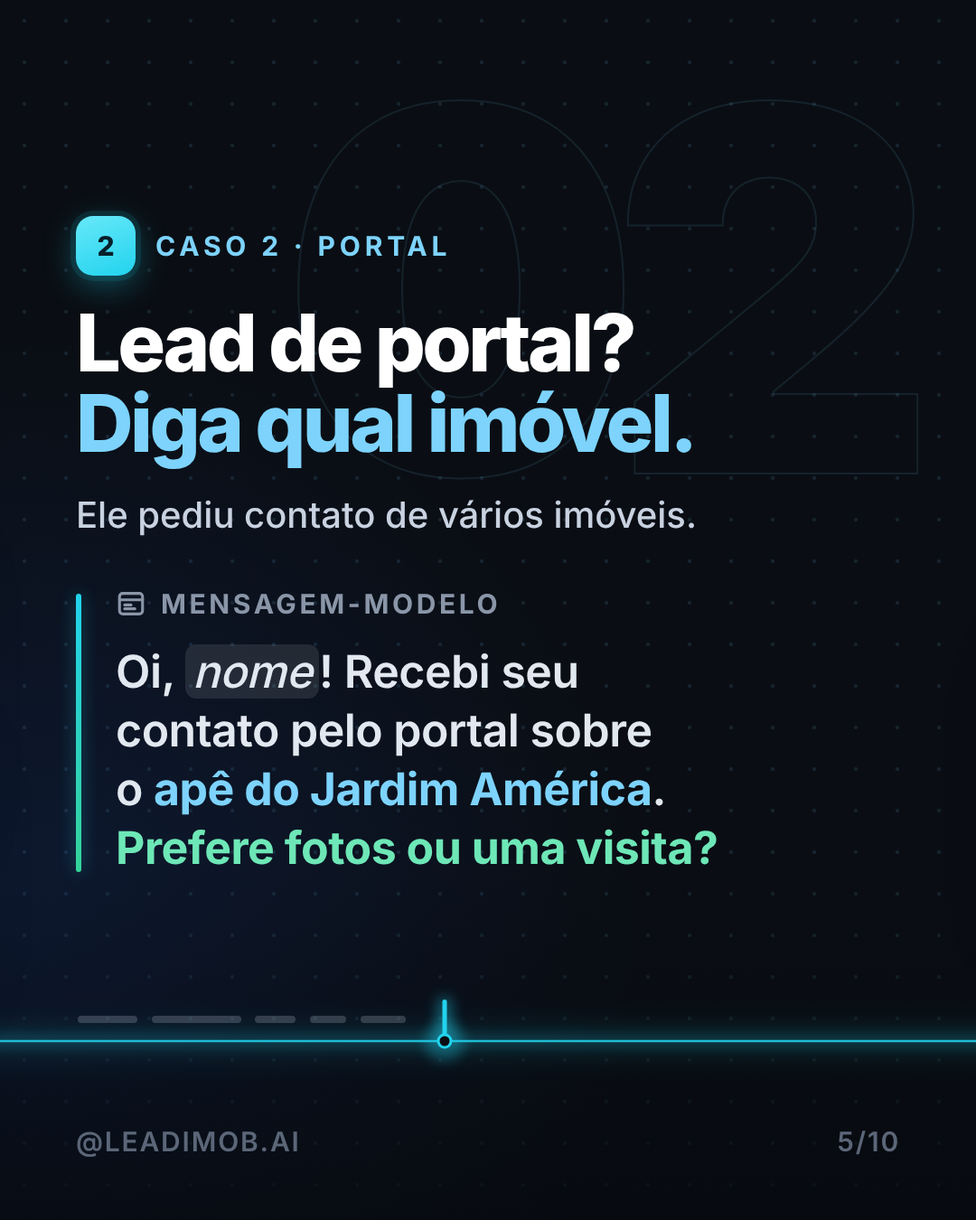
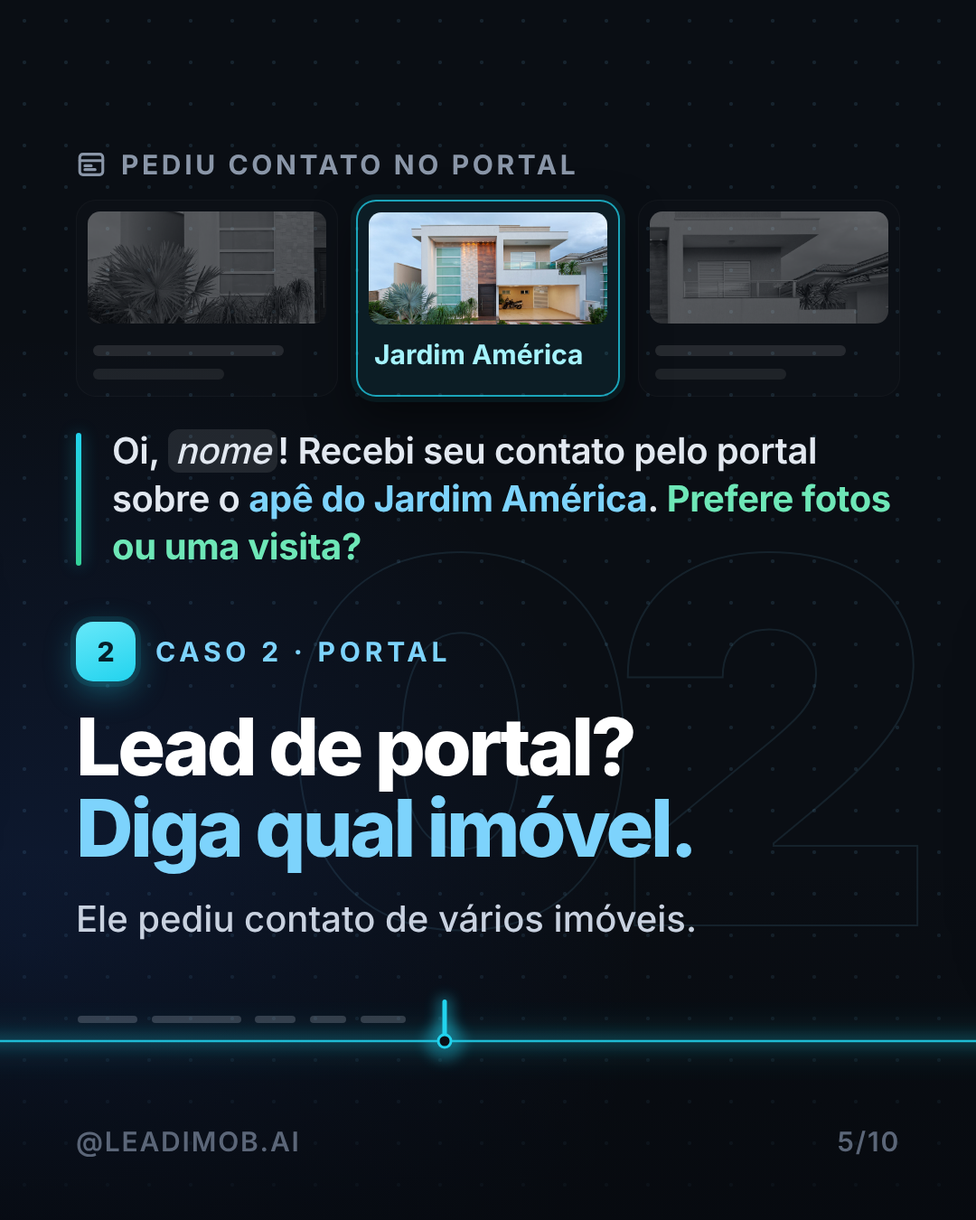
14/10: carrossel rodada 2 (clareza e estrutura própria), em crítica do corte final
Claude-Session: https://claude.ai/code/session_01LvJANurrpUBbb4ttcDaKAe

Changed region(s): [[0.0611, 0.1244, 0.9167, 0.7156], [0.0611, 0.7467, 0.7028, 0.7778]]

diff --git a/instagram/2026-10-14/src/c1-index.html b/instagram/2026-10-14/src/c1-index.html
@@ -89,13 +89,17 @@ body{background:#0A0E14;width:10800px;height:1350px;overflow:hidden;font-family:
 <svg id="lane" class="abs" width="10800" height="1350" style="left:0;top:0;z-index:4;pointer-events:none"></svg>
 
 <!-- 1 CAPA -->
-<div class="sl" style="left:0">
+<div class="sl" style="left:0;padding-bottom:330px">
  <div style="display:flex;justify-content:space-between;align-items:center">
   <div class="ttl" style="margin:0"><div class="num"><svg width="32" height="32" viewBox="0 0 24 24"><path d="M12 3c5 0 9 3.6 9 8.2S17 19.5 12 19.5c-1 0-2-.15-2.9-.42L4.5 21l1.2-3.9C4 15.6 3 13.5 3 11.2 3 6.6 7 3 12 3z" fill="#06202A"/></svg></div><div class="kick">Primeira mensagem</div></div>
   <span class="chip cy"><svg width="24" height="28" viewBox="0 0 20 24"><path d="M3 2h14v20l-7-5.5L3 22z" fill="#A5F3FC"/></svg>Salve este post</span>
  </div>
  <div class="h1" style="margin-top:84px;font-size:124px;line-height:.98">“Como posso ajudar?” <span class="hl">não abre conversa.</span></div>
  <div class="p" style="margin-top:44px;color:#E2E8F0">Modelos de primeira mensagem para copiar, um para cada tipo de lead.</div>
+ <!-- imagem do problema: a pergunta aberta, lida e sem resposta, parada na linha -->
+ <div class="foot0" style="position:absolute;right:84px;top:962px;display:flex;flex-direction:column;align-items:flex-end">
+  <div class="bub bneu" style="font-size:32px;padding:16px 24px 12px;background:#222B35;color:#AEB8C6;box-shadow:0 18px 36px rgba(0,0,0,.45)">Como posso ajudar?<div class="bt" style="margin-top:6px">lida <svg class="tk" viewBox="0 0 34 22"><path d="M2 12l6 6L20 4M14 18l14-14" stroke="#53BDEB" stroke-width="3" fill="none" stroke-linecap="round" stroke-linejoin="round"/></svg></div></div>
+ </div>
  <div class="foot"><span>@LEADIMOB.AI</span><span style="color:#7DD3FC">ARRASTE →</span></div>
 </div>
 
@@ -103,11 +107,11 @@ body{background:#0A0E14;width:10800px;height:1350px;overflow:hidden;font-family:
 <div class="sl" style="left:1080px">
  <div class="ttl"><div class="num amb">!</div><div class="kick" style="color:#FBBF24">O problema</div></div>
  <div class="h2">Pergunta aberta devolve o trabalho <span class="am">ao cliente.</span></div>
- <div class="p">Ele teria que explicar tudo. E deixa para depois.</div>
+ <div class="p">Ele teria de explicar tudo. Então deixa para depois.</div>
  <div class="wa art" style="padding:30px 30px 32px">
   <div class="bub bneu" style="font-size:42px">Olá, tudo bem? Como posso ajudar?</div>
-  <div class="lab2" style="margin-top:30px">O que ele teria que escrever</div>
-  <div class="bub bin" style="margin-top:16px;width:640px;padding:28px 30px;border:2px dashed rgba(245,158,11,.5);background:rgba(32,44,51,.55)">
+  <div class="lab2" style="margin-top:30px">O que ele teria de escrever</div>
+  <div class="bub bin" style="margin-top:16px;width:640px;padding:28px 30px;border:2px dashed rgba(245,158,11,.35);background:rgba(32,44,51,.55)">
    <div style="height:14px;width:92%;border-radius:7px;background:rgba(201,210,224,.22)"></div>
    <div style="height:14px;width:100%;border-radius:7px;background:rgba(201,210,224,.22);margin-top:20px"></div>
    <div style="height:14px;width:58%;border-radius:7px;background:rgba(201,210,224,.22);margin-top:20px"></div>
@@ -116,18 +120,18 @@ body{background:#0A0E14;width:10800px;height:1350px;overflow:hidden;font-family:
  <div class="foot"><span>@LEADIMOB.AI</span><span>2/10</span></div>
 </div>
 
-<!-- 3 A REGRA: antes -> depois na mesma mensagem -->
+<!-- 3 A FÓRMULA: a mensagem boa sozinha, o trecho do imóvel ligado por um fio ao card do imóvel -->
 <div class="sl" style="left:2160px">
- <div class="ttl"><div class="num"><svg width="32" height="32" viewBox="0 0 24 24"><path d="M5 12.5l4.5 4.5L19 7" stroke="#06202A" stroke-width="3" fill="none" stroke-linecap="round" stroke-linejoin="round"/></svg></div><div class="kick">A regra</div></div>
+ <div class="ttl"><div class="num"><svg width="32" height="32" viewBox="0 0 24 24"><path d="M5 9h14M5 15h14" stroke="#06202A" stroke-width="3" stroke-linecap="round"/></svg></div><div class="kick">A fórmula</div></div>
  <div class="h2">Cite o imóvel. Faça uma <span class="hl">pergunta fácil</span>.</div>
  <div class="p">Comece pelo imóvel que ele viu.</div>
- <div class="mod art">
-  <div style="padding:30px 38px 26px 80px;font:500 36px/1.2 IN;color:#6B7687;border-bottom:1px solid rgba(255,255,255,.07)"><span style="text-decoration:line-through;text-decoration-thickness:3px;text-decoration-color:#8A96A8">Olá, tudo bem? Como posso ajudar?</span></div>
-  <div class="mt" style="font-size:42px">Oi, Ana! Vi que você se interessou pela <span class="ci">casa com quintal no Campo Belo</span>. <span class="qu">Quer ver as fotos do quintal?</span></div>
- </div>
- <div style="display:flex;gap:44px;margin-top:30px;padding-left:6px">
-  <div class="lab2" style="color:#A5F3FC"><span class="dot" style="background:#22D3EE"></span>Cita o imóvel</div>
-  <div class="lab2" style="color:#6EE7B7"><span class="dot" style="background:#34D399"></span>Pergunta fácil</div>
+ <div class="art" id="f3" style="position:relative">
+  <svg id="f3w" class="abs" style="left:0;top:0;overflow:visible;z-index:3;pointer-events:none" width="10" height="10"></svg>
+  <div class="mod" style="z-index:2"><div class="mt" style="font-size:42px">Oi, Ana! Vi que você se interessou pela <span class="ci" id="f3c">casa com quintal no Campo Belo</span>. <span class="qu">Quer ver as fotos do quintal?</span></div></div>
+  <div id="f3k" class="card" style="z-index:2;margin:72px 0 0 auto;width:560px;padding:18px;display:flex;align-items:center;gap:22px;border-color:rgba(125,211,252,.34);border-radius:26px">
+   <div style="width:132px;height:100px;border-radius:16px;background:url(property.jpg) center 45%/cover;flex:none"></div>
+   <div style="font:700 32px/1.25 IN;color:#E2E8F0">Casa com quintal<div style="font-weight:500;color:#8A96A8;margin-top:6px">Campo Belo</div></div>
+  </div>
  </div>
  <div class="foot"><span>@LEADIMOB.AI</span><span>3/10</span></div>
 </div>
@@ -136,25 +140,41 @@ body{background:#0A0E14;width:10800px;height:1350px;overflow:hidden;font-family:
 <div class="sl" style="left:3240px"><div class="ghost">01</div>
  <div class="ttl"><div class="num">1</div><div class="kick">Caso 1 · anúncio</div></div>
  <div class="h2">Veio do anúncio? <span class="hl">Cite o anúncio.</span></div>
- <div class="p">Ele lembra do imóvel, não do seu nome.</div>
- <div class="art" style="position:relative;margin-right:-12px;height:300px;border-radius:30px;background:url(property.jpg) center 40%/cover;box-shadow:0 40px 80px rgba(0,0,0,.5)">
-  <div style="position:absolute;inset:0;border-radius:30px;background:linear-gradient(180deg,rgba(10,14,20,0) 30%,rgba(10,14,20,.75))"></div>
+ <div class="p">Ele se lembra do imóvel, não do seu nome.</div>
+ <div class="art" style="position:relative;height:300px;border-radius:30px;background:url(property.jpg) center 40%/cover;box-shadow:0 40px 80px rgba(0,0,0,.5)">
+  <div style="position:absolute;inset:0;border-radius:30px;background:linear-gradient(180deg,rgba(10,14,20,0) 0%,rgba(10,14,20,.15) 55%,rgba(10,14,20,.40) 100%)"></div>
   <span class="chip" style="position:absolute;left:28px;top:28px;background:rgba(10,14,20,.72);border:1.5px solid rgba(255,255,255,.18);color:#E2E8F0">Anúncio</span>
  </div>
- <div class="mod" style="margin-top:-90px;margin-left:40px;z-index:2"><div class="mt">Oi, <span class="fld">nome</span>! Vi que você chamou pelo anúncio do <span class="ci">sobrado da Vila Mariana</span>. <span class="qu">Quer ver o vídeo por dentro?</span></div></div>
+ <div class="mod" style="margin:-90px 40px 0;z-index:2"><div class="mt">Oi, <span class="fld">nome</span>! Vi que você chamou pelo anúncio do <span class="ci">sobrado da Vila Mariana</span>. <span class="qu">Quer ver o vídeo por dentro?</span></div></div>
  <div class="foot"><span>@LEADIMOB.AI</span><span>4/10</span></div>
 </div>
 
-<!-- 5 CASO 2: PORTAL (tipográfico, sem cartão) -->
-<div class="sl" style="left:4320px"><div class="ghost">02</div>
- <div class="ttl"><div class="num">2</div><div class="kick">Caso 2 · portal</div></div>
+<!-- 5 CASO 2: PORTAL (invertido: artefato em cima, título embaixo) -->
+<div class="sl" style="left:4320px"><div class="ghost" style="top:auto;bottom:250px">02</div>
+ <div class="art" style="margin-top:0">
+  <div class="lab2" style="margin-bottom:22px"><svg width="34" height="34" viewBox="0 0 24 24" fill="none" stroke="#8A96A8" stroke-width="2.2" stroke-linejoin="round"><rect x="3" y="4" width="18" height="16" rx="2.5"/><path d="M3 9h18M7 13h5M7 16h8" stroke-linecap="round"/></svg>Pediu contato no portal</div>
+  <div style="display:flex;gap:20px;align-items:stretch">
+   <div style="flex:1;border-radius:22px;padding:12px;background:rgba(255,255,255,.03);border:1.5px solid rgba(255,255,255,.08);opacity:.38;filter:grayscale(1)">
+    <div style="height:124px;border-radius:14px;background:url(property.jpg) 8% 70%/230%"></div>
+    <div style="height:12px;width:80%;border-radius:6px;background:rgba(201,210,224,.35);margin:24px 6px 0"></div><div style="height:12px;width:55%;border-radius:6px;background:rgba(201,210,224,.25);margin:14px 6px 6px"></div>
+   </div>
+   <div style="flex:1;border-radius:22px;padding:12px;background:rgba(34,211,238,.08);border:2px solid rgba(34,211,238,.75);box-shadow:0 0 0 6px rgba(34,211,238,.08),0 24px 50px rgba(0,0,0,.5)">
+    <div style="height:124px;border-radius:14px;background:url(property.jpg) center 45%/cover"></div>
+    <div style="font:700 30px/1 IN;color:#A5F3FC;margin:18px 6px 8px;white-space:nowrap">Jardim América</div>
+   </div>
+   <div style="flex:1;border-radius:22px;padding:12px;background:rgba(255,255,255,.03);border:1.5px solid rgba(255,255,255,.08);opacity:.38;filter:grayscale(1)">
+    <div style="height:124px;border-radius:14px;background:url(property.jpg) 95% 35%/210%"></div>
+    <div style="height:12px;width:80%;border-radius:6px;background:rgba(201,210,224,.35);margin:24px 6px 0"></div><div style="height:12px;width:55%;border-radius:6px;background:rgba(201,210,224,.25);margin:14px 6px 6px"></div>
+   </div>
+  </div>
+  <div style="position:relative;margin-top:34px;padding-left:40px">
+   <div style="position:absolute;left:0;top:6px;bottom:6px;width:6px;border-radius:3px;background:linear-gradient(180deg,#22D3EE,#34D399);box-shadow:0 0 18px rgba(34,211,238,.4)"></div>
+   <div style="font:600 40px/1.32 IN;letter-spacing:-.01em;color:#E2E8F0;text-wrap:pretty">Oi, <span class="fld">nome</span>! Recebi seu contato pelo portal sobre o <span class="ci">apê do Jardim América</span>. <span class="qu">Prefere fotos ou uma visita?</span></div>
+  </div>
+ </div>
+ <div class="ttl" style="margin:56px 0 28px"><div class="num">2</div><div class="kick">Caso 2 · portal</div></div>
  <div class="h2">Lead de portal? <span class="hl">Diga qual imóvel.</span></div>
  <div class="p">Ele pediu contato de vários imóveis.</div>
- <div class="art" style="position:relative;padding-left:44px">
-  <div style="position:absolute;left:0;top:6px;bottom:6px;width:6px;border-radius:3px;background:linear-gradient(180deg,#22D3EE,#34D399);box-shadow:0 0 18px rgba(34,211,238,.4)"></div>
-  <div class="lab2" style="margin-bottom:26px"><svg width="34" height="34" viewBox="0 0 24 24" fill="none" stroke="#8A96A8" stroke-width="2.2" stroke-linejoin="round"><rect x="3" y="4" width="18" height="16" rx="2.5"/><path d="M3 9h18M7 13h5M7 16h8" stroke-linecap="round"/></svg>Mensagem-modelo</div>
-  <div style="font:600 50px/1.3 IN;letter-spacing:-.01em;color:#E2E8F0;text-wrap:balance">Oi, <span class="fld">nome</span>! Recebi seu contato pelo portal sobre o <span class="ci">apê do Jardim América</span>. <span class="qu">Prefere fotos ou uma visita?</span></div>
- </div>
  <div class="foot"><span>@LEADIMOB.AI</span><span>5/10</span></div>
 </div>
 
@@ -169,7 +189,7 @@ body{background:#0A0E14;width:10800px;height:1350px;overflow:hidden;font-family:
    <svg width="64" height="24" viewBox="0 0 64 24" style="margin:0 6px"><path d="M2 12h52M46 4l9 8-9 8" stroke="#7DD3FC" stroke-width="3" fill="none" stroke-linecap="round" stroke-linejoin="round"/></svg>
    <div class="av" style="background:#123241;border:4px solid #0F1622;box-shadow:0 0 0 2px rgba(34,211,238,.6),0 14px 30px rgba(0,0,0,.5)"><svg width="42" height="42" viewBox="0 0 24 24"><circle cx="12" cy="9" r="4" fill="#A5F3FC"/><path d="M4 21c1-4.5 4.4-6.5 8-6.5s7 2 8 6.5z" fill="#A5F3FC"/></svg></div>
   </div>
-  <div class="mt" style="padding-top:66px">Oi, <span class="fld">nome</span>! <span class="ci">O Carlos me passou seu contato</span>. Você procura casa perto do trabalho? <span class="qu">Qual bairro é melhor para você?</span></div>
+  <div class="mt" style="padding-top:66px">Oi, <span class="fld">nome</span>! <span class="ci">O Carlos me passou seu contato</span> e contou que você procura casa perto do trabalho. <span class="qu">Qual bairro é melhor para você?</span></div>
  </div>
  <div class="foot"><span>@LEADIMOB.AI</span><span>6/10</span></div>
 </div>
@@ -199,8 +219,8 @@ body{background:#0A0E14;width:10800px;height:1350px;overflow:hidden;font-family:
 <!-- 9 LEADIMOB -->
 <div class="sl" style="left:8640px">
  <div class="ttl"><div class="num"><svg width="34" height="34" viewBox="0 0 24 24"><path d="M12 3c5 0 9 3.6 9 8.2S17 19.5 12 19.5c-1 0-2-.15-2.9-.42L4.5 21l1.2-3.9C4 15.6 3 13.5 3 11.2 3 6.6 7 3 12 3z" fill="#06202A"/></svg></div><div class="kick">Onde a Leadimob entra</div></div>
- <div class="h2">A Leadimob abre a conversa <span class="hl">pelo imóvel</span>.</div>
- <div class="p">Responde a qualquer hora com o seu catálogo, qualifica o lead e chama você na hora de negociar.</div>
+ <div class="h2">A Leadimob responde já <span class="hl">citando o imóvel</span>.</div>
+ <div class="p">Responde a qualquer hora com o seu catálogo e chama você na hora de negociar.</div>
  <div class="card art" style="padding:30px 34px 30px">
   <div style="display:flex;align-items:center;justify-content:space-between">
    <div class="row"><div class="av" style="width:72px;height:72px;font-size:32px;background:#22364B;color:#C9D6E2;box-shadow:none">A</div><div><div style="font:700 38px/1 IN">Ana</div><div style="font:500 30px/1 IN;color:#8A96A8;margin-top:10px">Casa com quintal · Campo Belo</div></div></div>
@@ -217,15 +237,15 @@ body{background:#0A0E14;width:10800px;height:1350px;overflow:hidden;font-family:
 <!-- 10 CTA: a linha de digitação sobe e vira o campo do comentário -->
 <div class="sl" style="left:9720px;padding-top:230px">
  <div class="ttl"><div class="num"><svg width="32" height="32" viewBox="0 0 24 24"><path d="M5 12.5l4.5 4.5L19 7" stroke="#06202A" stroke-width="3" fill="none" stroke-linecap="round" stroke-linejoin="round"/></svg></div><div class="kick">Sua vez</div></div>
- <div class="h2">Qual modelo você <span class="hl">testa primeiro?</span></div>
- <div class="p">Conte qual no comentário.</div>
+ <div class="h2">Qual abertura você <span class="hl">testa primeiro?</span></div>
+ <div class="p">Comente <b style="color:#fff;font-weight:700">ABERTURA</b><br>+ o número do caso (1 a 4).</div>
  <div id="cta" style="margin-top:50px;height:124px;border-radius:62px;background:#141B28;border:2px solid rgba(125,211,252,.5);box-shadow:0 0 0 8px rgba(34,211,238,.06),0 30px 70px rgba(0,0,0,.55),0 0 60px rgba(34,211,238,.16);display:flex;align-items:center;padding:0 16px 0 40px;gap:16px;font:600 44px IN">
   <span style="color:#7C8799">Comente</span><span style="font-weight:900;letter-spacing:.02em">ABERTURA</span><span style="width:4px;height:52px;background:#22D3EE;border-radius:2px;box-shadow:0 0 12px #22D3EE"></span>
   <span style="margin-left:auto;width:90px;height:90px;border-radius:50%;background:#2563EB;display:flex;align-items:center;justify-content:center;box-shadow:0 10px 30px rgba(37,99,235,.55)"><svg width="40" height="40" viewBox="0 0 24 24"><path d="M3 12 L21 3 L14 21 L11 13 Z" fill="#fff"/></svg></span>
  </div>
  <div style="margin-top:48px;display:flex;align-items:center;gap:28px">
   <div style="width:300px;height:96px;border-radius:22px;background:#F3F7FB;display:flex;align-items:center;justify-content:center;box-shadow:0 20px 44px rgba(0,0,0,.5);flex:none"><img src="logo.png" style="width:240px"></div>
-  <div style="font:700 32px/1.3 IN;color:#7DD3FC">Solicite uma demonstração<br><span style="color:#C9D2E0;font-weight:600">link na bio</span></div>
+  <div style="font:700 32px/1.3 IN;color:#7DD3FC">Solicite uma demonstração —<br><span style="color:#C9D2E0;font-weight:600">link na bio</span></div>
  </div>
  <div class="foot"><span>@LEADIMOB.AI</span><span>10/10</span></div>
 </div>
@@ -242,9 +262,14 @@ const ic=(k,c)=>ICON[k].replace(/CLR/g,c);
 document.getElementById('answers').innerHTML=[['ad','Quero!'],['portal','Visita!'],['ind','Pinheiros.'],['moon','Sábado.']].map(([k,w],i)=>
  `<div class="ans" style="margin-left:${i*72}px"><div class="tile">${ic(k,'#6EE7B7')}</div><div class="bub bin" style="border:1.5px solid rgba(52,211,153,.30)">${w}</div></div>`).join('');
 // linha de digitação contínua
+function drawFiber(){const box=document.getElementById('f3').getBoundingClientRect(),rs=[...document.getElementById('f3c').getClientRects()],k=document.getElementById('f3k').getBoundingClientRect();
+ const last=rs[rs.length-1],x0=last.right-56-box.left,y0=last.bottom-box.top+14,x1=k.left+k.width/2-box.left,y1=k.top-box.top;
+ const sv=document.getElementById('f3w');sv.setAttribute('width',box.width);sv.setAttribute('height',box.height);
+ sv.innerHTML=`<path d="M${x0} ${y0} C${x0} ${y0+80} ${x1} ${y1-80} ${x1} ${y1}" fill="none" stroke="#7DD3FC" stroke-width="2.5" stroke-opacity=".8" stroke-dasharray="0"/><circle cx="${x0}" cy="${y0}" r="7" fill="#0F1622" stroke="#7DD3FC" stroke-width="2.5"/><circle cx="${x1}" cy="${y1}" r="7" fill="#7DD3FC"/>`;
+}
 function drawLane(){const r=rng(1410),Y=1152;let s='';
  const cb=document.getElementById('cta').getBoundingClientRect(),FX=cb.left+2,FY=cb.top+cb.height/2;
- s+=`<defs><linearGradient id="ln" gradientUnits="userSpaceOnUse" x1="0" x2="10800"><stop offset="0" stop-color="#22D3EE" stop-opacity=".25"/><stop offset=".06" stop-color="#22D3EE"/><stop offset=".099" stop-color="#22D3EE"/><stop offset=".101" stop-color="#F59E0B"/><stop offset=".199" stop-color="#F59E0B"/><stop offset=".201" stop-color="#22D3EE"/><stop offset=".699" stop-color="#22D3EE"/><stop offset=".701" stop-color="#34D399"/><stop offset=".899" stop-color="#34D399"/><stop offset=".901" stop-color="#22D3EE"/></linearGradient><filter id="gl" x="-5%" y="-400%" width="110%" height="900%"><feGaussianBlur stdDeviation="8"/></filter><filter id="gl3" x="-5%" y="-800%" width="110%" height="1700%"><feGaussianBlur stdDeviation="18"/></filter><filter id="gl2" x="-200%" y="-200%" width="500%" height="500%"><feGaussianBlur stdDeviation="7"/></filter></defs>`;
+ s+=`<defs><linearGradient id="ln" gradientUnits="userSpaceOnUse" x1="0" x2="10800"><stop offset="0" stop-color="#22D3EE" stop-opacity=".25"/><stop offset=".06" stop-color="#22D3EE"/><stop offset=".099" stop-color="#22D3EE"/><stop offset=".101" stop-color="#C9D2E0" stop-opacity=".35"/><stop offset=".199" stop-color="#C9D2E0" stop-opacity=".35"/><stop offset=".201" stop-color="#22D3EE"/><stop offset=".699" stop-color="#22D3EE"/><stop offset=".701" stop-color="#34D399"/><stop offset=".899" stop-color="#34D399"/><stop offset=".901" stop-color="#22D3EE"/></linearGradient><filter id="gl" x="-5%" y="-400%" width="110%" height="900%"><feGaussianBlur stdDeviation="8"/></filter><filter id="gl3" x="-5%" y="-800%" width="110%" height="1700%"><feGaussianBlur stdDeviation="18"/></filter><filter id="gl2" x="-200%" y="-200%" width="500%" height="500%"><feGaussianBlur stdDeviation="7"/></filter></defs>`;
  const X1=84,XC=9720-70;
  const d=`M${X1} ${Y}H${XC}C${XC+70} ${Y} ${FX-80} ${FY} ${FX} ${FY}`;
  s+=`<path d="${d}" fill="none" stroke="url(#ln)" stroke-width="16" opacity=".22" filter="url(#gl3)"/><path d="${d}" fill="none" stroke="url(#ln)" stroke-width="6" opacity=".45" filter="url(#gl)"/><path d="${d}" fill="none" stroke="url(#ln)" stroke-width="2.5" opacity=".85"/>`;
@@ -255,5 +280,5 @@ function drawLane(){const r=rng(1410),Y=1152;let s='';
   if(i===0)s+=`<text x="${cx+24}" y="${Y-16}" font-family="IN" font-weight="500" font-size="32" fill="#7C8799">Escreva a primeira mensagem…</text>`;
  }
  document.getElementById('lane').innerHTML=s}
-window.ready=document.fonts.ready.then(()=>document.fonts.load('600 44px IN')).then(()=>drawLane()).then(()=>Promise.all(['400 20px IN','500 20px IN','600 20px IN','700 20px IN','800 20px IN','900 20px IN'].map(f=>document.fonts.load(f)))).then(()=>Promise.all([...document.images].map(i=>i.decode().catch(()=>0)))).then(()=>new Promise(r=>{const im=new Image();im.onload=im.onerror=()=>setTimeout(r,300);im.src='property.jpg'}));
+window.ready=document.fonts.ready.then(()=>document.fonts.load('600 44px IN')).then(()=>{drawLane();drawFiber()}).then(()=>Promise.all(['400 20px IN','500 20px IN','600 20px IN','700 20px IN','800 20px IN','900 20px IN'].map(f=>document.fonts.load(f)))).then(()=>Promise.all([...document.images].map(i=>i.decode().catch(()=>0)))).then(()=>new Promise(r=>{const im=new Image();im.onload=im.onerror=()=>setTimeout(r,300);im.src='property.jpg'}));
 </script></body></html>

diff --git a/instagram/2026-10-14/carrossel/carrossel-editor.html b/instagram/2026-10-14/carrossel/carrossel-editor.html
@@ -312,7 +312,7 @@ input[type=range]{width:100%;accent-color:#6C5CE7;height:18px;cursor:pointer;}
     </div>
   </div>
 </div>
-<script id="deck-data" type="application/json">{"kit": "tech", "formato": "4:5", "paleta": {"bg": "#0A0E14", "fg": "#FFFFFF", "muted": "#8A93A3", "accent": "#22D3EE", "surface": "#141B28", "cream": "#F3F7FB"}, "handle": "@leadimob.ai", "slides": [{"tipo": "capa", "kicker": "PRIMEIRA MENSAGEM · SALVE ESTE POST", "titulo": "“Como posso ajudar?” não abre conversa.", "sub": "Modelos de primeira mensagem para copiar, um para cada tipo de lead."}, {"tipo": "conteudo", "kicker": "O PROBLEMA", "titulo": "Pergunta aberta devolve o trabalho ao cliente.", "sub": "Ele teria que explicar tudo. E deixa para depois."}, {"tipo": "conteudo", "kicker": "A REGRA", "titulo": "Cite o imóvel. Faça uma pergunta fácil.", "sub": "Comece pelo imóvel que ele viu.", "corpo": "Antes: Olá, tudo bem? Como posso ajudar?\nDepois: Oi, Ana! Vi que você se interessou pela casa com quintal no Campo Belo. Quer ver as fotos do quintal?"}, {"tipo": "conteudo", "kicker": "CASO 1 · ANÚNCIO", "titulo": "Veio do anúncio? Cite o anúncio.", "sub": "Ele lembra do imóvel, não do seu nome.", "corpo": "Oi, [nome]! Vi que você chamou pelo anúncio do sobrado da Vila Mariana. Quer ver o vídeo por dentro?"}, {"tipo": "conteudo", "kicker": "CASO 2 · PORTAL", "titulo": "Lead de portal? Diga qual imóvel.", "sub": "Ele pediu contato de vários imóveis.", "corpo": "Oi, [nome]! Recebi seu contato pelo portal sobre o apê do Jardim América. Prefere fotos ou uma visita?"}, {"tipo": "conteudo", "kicker": "CASO 3 · INDICAÇÃO", "titulo": "Veio por indicação? Diga quem indicou.", "sub": "Um nome de confiança abre a porta.", "corpo": "Oi, [nome]! O Carlos me passou seu contato. Você procura casa perto do trabalho? Qual bairro é melhor para você?"}, {"tipo": "conteudo", "kicker": "CASO 4 · FORA DO HORÁRIO", "titulo": "Chegou à noite? Volte ao assunto dele.", "sub": "Comece pelo que ele perguntou.", "corpo": "Bom dia, [nome]! Vi sua pergunta de ontem sobre o apê do Centro. Prefere visitar sábado ou durante a semana?"}, {"tipo": "lista", "kicker": "O RESULTADO", "titulo": "A resposta cabe em uma palavra.", "sub": "Quatro modelos, quatro respostas fáceis.", "itens": ["Quero!", "Visita!", "Pinheiros.", "Sábado."]}, {"tipo": "conteudo", "kicker": "ONDE A LEADIMOB ENTRA", "titulo": "A Leadimob abre a conversa pelo imóvel.", "sub": "Responde a qualquer hora com o seu catálogo, qualifica o lead e chama você na hora de negociar."}, {"tipo": "cta", "kicker": "SUA VEZ", "titulo": "Qual modelo você testa primeiro?", "sub": "Conte qual no comentário: Comente ABERTURA. Solicite uma demonstração — link na bio."}]}</script>
+<script id="deck-data" type="application/json">{"kit": "tech", "formato": "4:5", "paleta": {"bg": "#0A0E14", "fg": "#FFFFFF", "muted": "#8A93A3", "accent": "#22D3EE", "surface": "#141B28", "cream": "#F3F7FB"}, "handle": "@leadimob.ai", "slides": [{"tipo": "capa", "kicker": "PRIMEIRA MENSAGEM · SALVE ESTE POST", "titulo": "“Como posso ajudar?” não abre conversa.", "sub": "Modelos de primeira mensagem para copiar, um para cada tipo de lead."}, {"tipo": "conteudo", "kicker": "O PROBLEMA", "titulo": "Pergunta aberta devolve o trabalho ao cliente.", "sub": "Ele teria de explicar tudo. Então deixa para depois."}, {"tipo": "conteudo", "kicker": "A FÓRMULA", "titulo": "Cite o imóvel. Faça uma pergunta fácil.", "sub": "Comece pelo imóvel que ele viu.", "corpo": "Oi, Ana! Vi que você se interessou pela casa com quintal no Campo Belo. Quer ver as fotos do quintal?\nImóvel citado: Casa com quintal · Campo Belo"}, {"tipo": "conteudo", "kicker": "CASO 1 · ANÚNCIO", "titulo": "Veio do anúncio? Cite o anúncio.", "sub": "Ele se lembra do imóvel, não do seu nome.", "corpo": "Oi, [nome]! Vi que você chamou pelo anúncio do sobrado da Vila Mariana. Quer ver o vídeo por dentro?"}, {"tipo": "conteudo", "kicker": "CASO 2 · PORTAL", "titulo": "Lead de portal? Diga qual imóvel.", "sub": "Ele pediu contato de vários imóveis.", "corpo": "Oi, [nome]! Recebi seu contato pelo portal sobre o apê do Jardim América. Prefere fotos ou uma visita?"}, {"tipo": "conteudo", "kicker": "CASO 3 · INDICAÇÃO", "titulo": "Veio por indicação? Diga quem indicou.", "sub": "Um nome de confiança abre a porta.", "corpo": "Oi, [nome]! O Carlos me passou seu contato e contou que você procura casa perto do trabalho. Qual bairro é melhor para você?"}, {"tipo": "conteudo", "kicker": "CASO 4 · FORA DO HORÁRIO", "titulo": "Chegou à noite? Volte ao assunto dele.", "sub": "Comece pelo que ele perguntou.", "corpo": "Bom dia, [nome]! Vi sua pergunta de ontem sobre o apê do Centro. Prefere visitar sábado ou durante a semana?"}, {"tipo": "lista", "kicker": "O RESULTADO", "titulo": "A resposta cabe em uma palavra.", "sub": "Quatro modelos, quatro respostas fáceis.", "itens": ["Quero!", "Visita!", "Pinheiros.", "Sábado."]}, {"tipo": "conteudo", "kicker": "ONDE A LEADIMOB ENTRA", "titulo": "A Leadimob responde já citando o imóvel.", "sub": "Responde a qualquer hora com o seu catálogo e chama você na hora de negociar."}, {"tipo": "cta", "kicker": "SUA VEZ", "titulo": "Qual abertura você testa primeiro?", "sub": "Comente ABERTURA + o número do caso (1 a 4). Solicite uma demonstração — link na bio."}]}</script>
 <script>
 const KITS = {
   "editorial":     {disp:"Anton", body:"Inter", mono:"JetBrains Mono", serif:"Instrument Serif",
